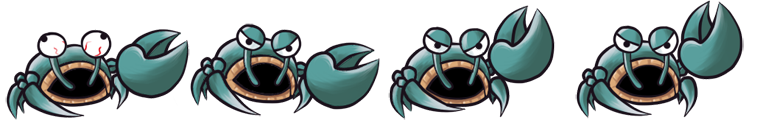
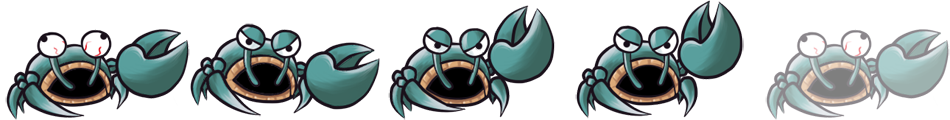
加上了螃蟹的死亡动画
111

diff --git a/online/js/g_config.js b/online/js/g_config.js
@@ -189,7 +189,7 @@ woh.g_config.resources = {
             'images/sprites/clothes/002/none/dead.png',
 
             'images/sprites/clothes/002/003/attack.png',
-            'images/sprites/clothes/002/003/hurted.png',
+            'images/sprites/clothes/002/0c03/hurted.png',
             'images/sprites/clothes/002/003/magic.png',
             'images/sprites/clothes/002/003/stand.png',
             'images/sprites/clothes/002/003/run.png',
@@ -1103,7 +1103,25 @@ woh.g_config.monsters = {
                 ],
                 "filename": "images/monster/normal001-crab.png"
             }
-        ]
+        ],
+        "dead": [{
+            "info": {
+                "nbrOfFrames": 5,
+                "name": "dead",
+                "type": "animation",
+                "framerate": 4,
+                "pivotx": 95,
+                "pivoty": 60,
+                "events": []
+            },
+            "data": [
+                [0,0,189,119,0,0,189,119],
+                [760,0,949,119,760,0,949,119],
+                [0,0,189,119,0,0,189,119],
+                [760,0,949,119,760,0,949,119]
+            ],
+            "filename": "images/monster/normal001-crab.png"
+        }]        
     }
 
 }
